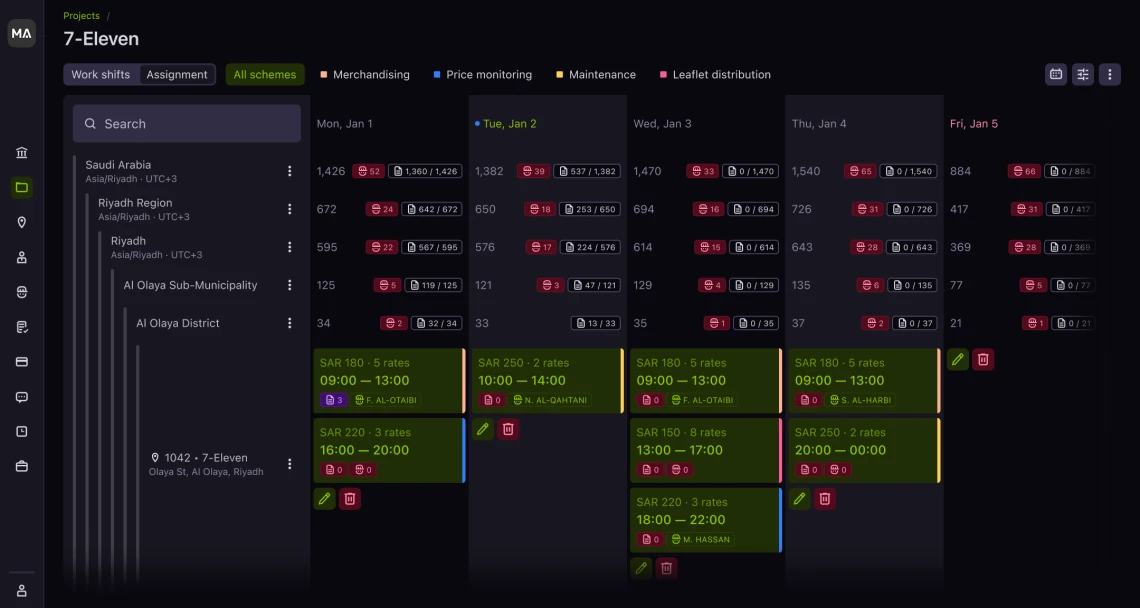
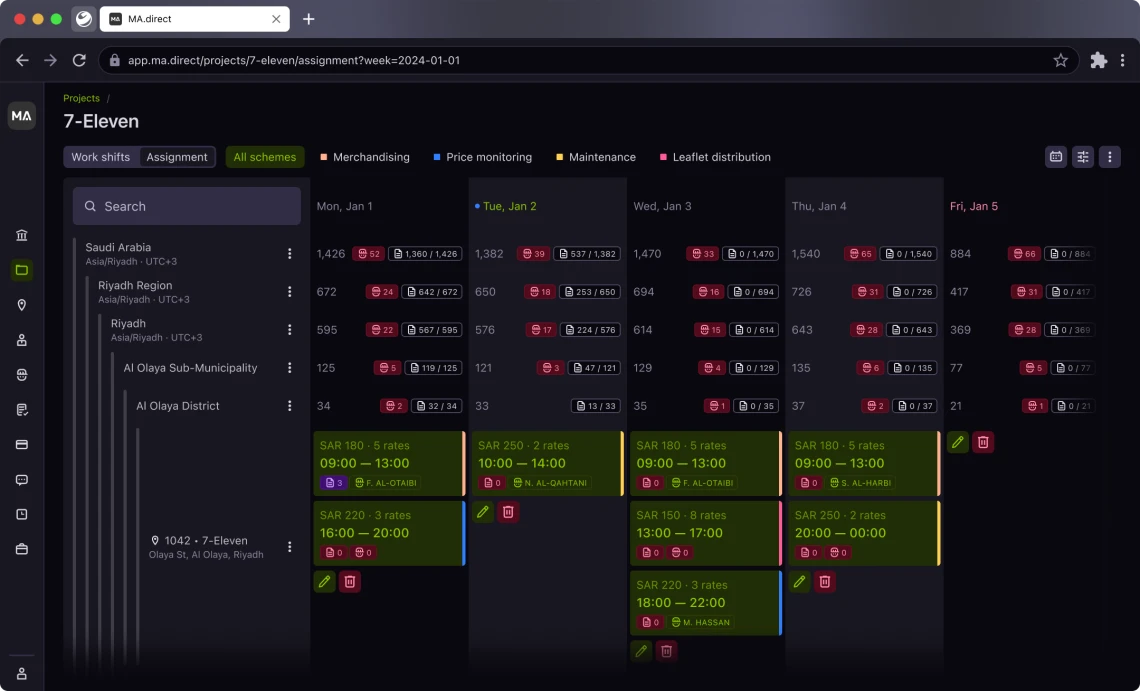
fix

diff --git a/ma-direct/index.html b/ma-direct/index.html
@@ -221,7 +221,7 @@
           <span class="image-loader image-loader--spinner">
             <img class="media__image" src="../assets/img/ma-direct/assignment-form-1140.webp" srcset="../assets/img/ma-direct/assignment-form-1140.webp 1140w, ../assets/img/ma-direct/assignment-form-2160.webp 2160w"
                  sizes="(max-width: 767.98px) calc(100vw - 48px), min(1140px, calc(100vw - 280px))"
-                 width="2160" height="1152" alt="The Edit workers form over the 7-Eleven shift planner, step 1 of 3 for Al Olaya District with 16 slots. A table lists only workers with access to this district — by district, sub-municipality, city or region — with their status, schemes, rating and shift count. Two workers are ticked, and the form has Status, Schemes and Access filters, Available and Assigned tabs, an Assign workers button and a Next level link." loading="lazy" decoding="async">
+                 width="2160" height="1308" alt="The Edit workers form in the MA.direct web app (app.ma.direct, 7-Eleven project, Assignment view), step 1 of 3 for Al Olaya District with 16 slots. A table lists only workers with access to this district — by district, sub-municipality, city or region — with their status, schemes, rating and shift count. Two workers are ticked, and the form has Status, Schemes and Access filters, Available and Assigned tabs, an Assign workers button and a Next level link." loading="lazy" decoding="async">
           </span>
           <span class="visually-hidden">(opens full size)</span>
         </a>
@@ -237,7 +237,7 @@
           <span class="image-loader image-loader--spinner">
             <img class="media__image" src="../assets/img/ma-direct/assignment-calendar-1140.webp" srcset="../assets/img/ma-direct/assignment-calendar-1140.webp 1140w, ../assets/img/ma-direct/assignment-calendar-2160.webp 2160w"
                  sizes="(max-width: 767.98px) calc(100vw - 48px), min(1140px, calc(100vw - 280px))"
-                 width="2160" height="1152" alt="The 7-Eleven project in Assignment view: a location tree from Saudi Arabia down to store 1042 on Olaya St, with daily counts per level for Mon, Jan 1 to Fri, Jan 5 showing assigned and completed tasks. Shift cards show pay, hours and the assigned worker, such as SAR 180 · 5 rates, 09:00 — 13:00, F. Al-Otaibi." loading="lazy" decoding="async">
+                 width="2160" height="1308" alt="The 7-Eleven project in Assignment view in the MA.direct web app: a location tree from Saudi Arabia down to store 1042 on Olaya St, with daily counts per level for Mon, Jan 1 to Fri, Jan 5 showing open tasks and collected reports. Shift cards show pay, hours and the assigned worker, such as SAR 180 · 5 rates, 09:00 — 13:00, F. Al-Otaibi." loading="lazy" decoding="async">
           </span>
           <span class="visually-hidden">(opens full size)</span>
         </a>

diff --git a/assets/css/site/reflection-cards.css b/assets/css/site/reflection-cards.css
@@ -5,17 +5,17 @@
    up to 1140px wide, 4px gaps:
 
    ┌──────────────────┬──────────────────┐
-   │ Problem          │ Smart work       │
-   │ (grows)          │ (grows)          │
-   ├──────────────────┼──────────────────┤
-   │ Hard work        │ Shipped impact   │
+   │ Situation        │ Problem          │
    │ (grows)          │ (grows)          │
    │                  ├──────────────────┤
+   ├──────────────────┤ Result           │
+   │ Actions          │ (grows)          │
+   │ (grows)          ├──────────────────┤
    │                  │ Fails            │
    └──────────────────┴──────────────────┘
 
-   Titles vary by case: Sbertech uses Situation · Actions on the left
-   and Problem · Result · Fails on the right, in the same slots.
+   T-bank still uses the older set (Problem · Hard work / Smart work ·
+   Shipped impact, no Fails) in the same slots.
 
    Height: at least 512px (the fixed height of the Figma frame); taller
    only if the text needs it. Both columns match the taller one, and

diff --git a/assets/css/site.css b/assets/css/site.css
@@ -32,13 +32,12 @@
 @import url("site/media.css");             /* image blocks, video, images side by side */
 @import url("site/toggle-media.css");      /* Legacy vs Current: four images, segments + a switch */
 @import url("site/arrow.css");             /* the down arrow between before / after */
-@import url("site/reflection-cards.css");  /* Problem, Hard work, Smart work… */
+@import url("site/reflection-cards.css");  /* Situation, Actions, Problem, Result, Fails */
 
 /* Components */
 @import url("site/button.css");            /* habibi button, all variants */
 @import url("site/switch.css");            /* habibi switch */
 @import url("site/segment.css");           /* habibi segment-group */
-@import url("site/cta-banner.css");        /* picture strip with a button ("Explore my Figma") */
 @import url("site/image-loader.css");      /* grey pulsing placeholder while images load */
 @import url("site/tag.css");               /* habibi tag */
 

diff --git a/README.md b/README.md
@@ -44,16 +44,15 @@ assets/css/                HOW THINGS LOOK
     menu.css               one menu row: default / hover / active, divider
     empty-state.css        "coming soon" and "page not found"
     case-header.css        case study title, role, tags + the paragraph block
-    case-section.css       numbered text sections (01, 02…), tablet layout
+    case-section.css       numbered text sections (01, 02…), JTBD block, tablet layout
     home-cards.css         the big cards on the home page
     media.css              image blocks, video, images side by side
     toggle-media.css       Legacy vs Current: four images, segments + a switch
     arrow.css              the down arrow between before / after
-    reflection-cards.css   Problem, Hard work, Smart work, Shipped impact, Fails
+    reflection-cards.css   Situation, Actions, Problem, Result, Fails
     button.css             habibi button, all variants
     switch.css             habibi switch
     segment.css            habibi segment-group
-    cta-banner.css         picture strip with a button ("Explore my Figma")
     image-loader.css       grey pulsing placeholder while images load
     tag.css                habibi tag
     mobile.css             phone layout (below 768px) — always last
@@ -97,8 +96,8 @@ Legacy vs Current block and the section images are exported from.
 
 ## Add a case study
 
-1. Copy the `t-bank/` folder and rename the copy, e.g. `new-project/`.
-2. In `new-project/index.html`, change `data-page="t-bank"` to `new-project` and update the `<title>`.
+1. Copy the `ma-direct/` folder (it has the current card set and JTBD blocks) and rename the copy, e.g. `new-project/`.
+2. In `new-project/index.html`, change `data-page="ma-direct"` to `new-project` and update the `<title>`.
 3. Add one line to `assets/js/config.js`:
    `{ id: "new-project", title: "New Project", href: "new-project/", icon: "desktop" }`
 
@@ -116,6 +115,23 @@ browser tab (prefetch.js skips it). Example:
 Each section is a `<section class="case-section">` with an `h2` title and a text paragraph.
 The numbers (01, 02, …) are added automatically in order and are hidden on mobile, so you can add,
 remove or reorder sections without renumbering anything.
+
+Inside a section, after the title, you can use:
+
+- **JTBD block** (Figma: `jtbd`) — the job story, `boring-blue/50` text between two `boring-blue/90` lines:
+  ```html
+  <div class="case-jtbd body-c-regular">
+    <p class="body-c-bold">JTBD №1</p>
+    <p>When …, I want …, so …</p>
+  </div>
+  ```
+- **Paragraphs** — `<p class="case-section__body body-c-regular">`, 8px apart. Add
+  `case-section__body--secondary` for the grey secondary text (e.g. a closing Result).
+- **Bullet list** — `<div class="case-section__body body-c-regular"><ul><li>…</li></ul></div>`.
+- **Inline link** — `<a class="text-link" href="…" target="_blank" rel="noopener">…</a>`, accent colour and
+  underlined. Add `<span class="visually-hidden"> (opens in a new tab)</span>` inside it for new-tab links.
+
+A paragraph between images without a title or number is `<div class="paragraph">` with the same `<p>` inside.
 
 Blocks in the content column sit `--vert-space` apart — the habibi `vert-space` variable, 28px,
 the same at every breakpoint. Change it in one place (`assets/css/site/settings.css`) and every page follows.
@@ -152,7 +168,7 @@ others the small one, and clicking an image opens it full size.
 
 Wrap every image in `<span class="image-loader">` (add `image-loader--spinner` for large ones).
 Every image slot is rounded with habibi `radius/l` (10px) and clips its image, as in Figma, so images,
-the video, the Legacy vs Current switchers, the home cards and the Figma button block all share one corner.
+the video, the Legacy vs Current switchers and the home cards all share one corner.
 While it loads, it shows the habibi skeleton pulse (and loader), sized to the image so nothing jumps.
 Always write an `alt` that says what the image shows.
 
@@ -163,17 +179,17 @@ Each half is up to 564px; export them at 1032px with a 564px copy. When the bloc
 ## Cards
 
 Every case study has the reflection block (Figma: `image-frame`) right after Outcomes,
-as a `<section class="cards">` with two equal columns. Sberbank Technology and MA.direct use all five cards;
-Raiffeisen Bank and T-bank have no Fails card, and there Problem drops `card--grow` so it hugs its text
-while Hard work takes the rest of the column, as in Figma. Problem is a plain `<p class="body-c-regular">`,
-the other cards are bullet lists:
+as a `<section class="cards">` with two equal columns. Sberbank Technology, MA.direct and Raiffeisen Bank
+use the current set below; T-bank still has the older Problem · Hard work / Smart work · Shipped impact set
+in the same slots. Situation is a plain `<p class="body-c-regular">`; the others are usually
+`<ul class="card__list">` bullet lists, or a `<p>` when the card is one paragraph or a "..." placeholder:
 
 | Column | Card | Classes |
 |---|---|---|
-| left | Problem | `card card--grow` |
-| left | Hard work | `card card--grow` |
-| right | Smart work | `card card--grow` |
-| right | Shipped impact | `card card--grow` |
+| left | Situation | `card card--grow` |
+| left | Actions | `card card--grow` |
+| right | Problem | `card card--grow` |
+| right | Result | `card card--grow` |
 | right | Fails | `card` |
 
 All cards look the same: `uncolorful-grey/surface` fill, `uncolorful-grey/secondary` text, 3px corners,
@@ -184,11 +200,11 @@ with no indent. Cards and columns are 4px apart.
 Side by side the block is at least 512px tall, like the fixed-height Figma frame; both columns match the
 taller one and `card--grow` cards share the spare room equally. The block is up to
 1140px wide and stacks into one column when it is narrower than 700px. Colours come from habibi tokens,
-so they follow the page's theme and day/night. Replace each `<li>...</li>` with real items.
+so they follow the page's theme and day/night.
 
 ## Buttons
 
-`.button` is the habibi **button** with every variant. Set the same properties as in Figma:
+`.button` is the habibi **button** with every variant. It is not used on any page right now (the "Explore my Figma" banner was removed) and is kept for later. Set the same properties as in Figma:
 
 | Attribute | Values | Default |
 |---|---|---|
